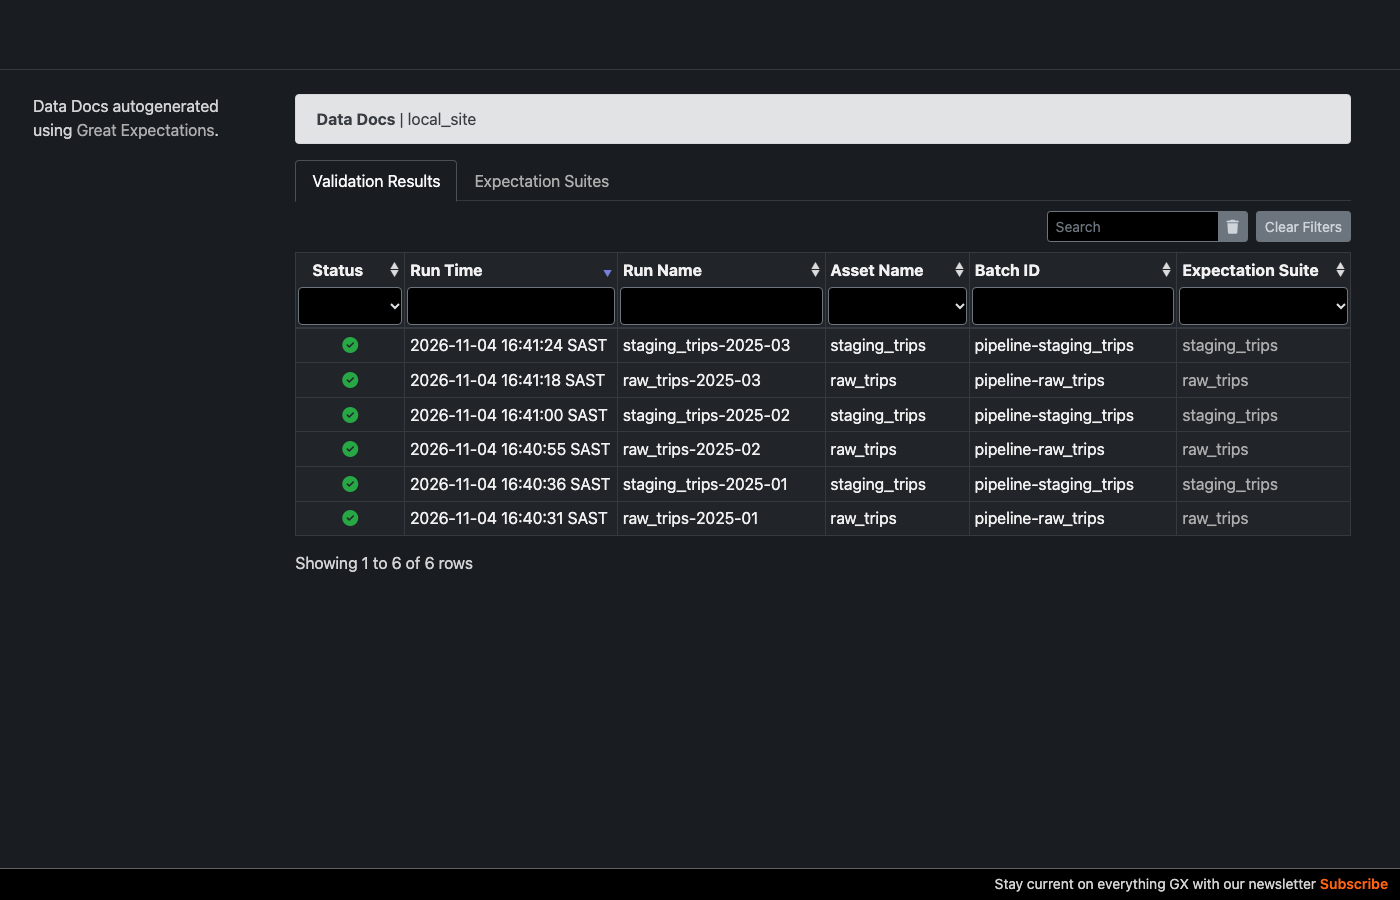
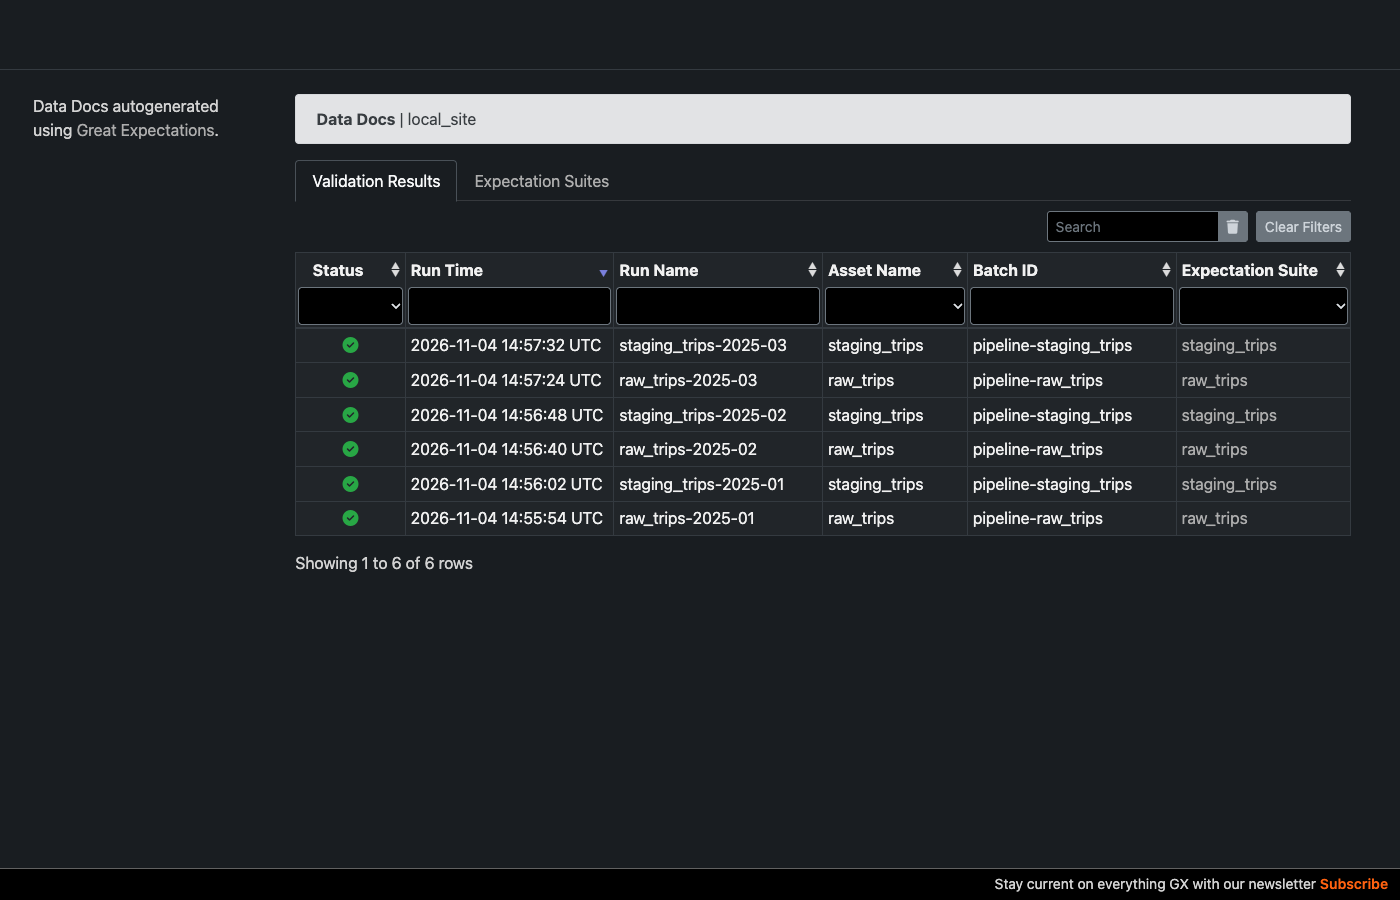
docs: final README with dashboard, Airflow and Data Docs screenshots

diff --git a/README.md b/README.md
@@ -6,10 +6,13 @@
 > model it into an analytics-ready star schema, and produce reliable aggregates (demand by
 > zone/hour, revenue, tipping behaviour), with reruns that are idempotent per month.
 
-A batch pipeline in Python, DuckDB and dbt, orchestrated by Airflow, that runs locally or in
-Docker. Three months of 2025 data
-(11.2M raw rows) load from scratch with one command, rerunning a month replaces it with exactly
-the same rows, and every rejected row is kept along with the reason it was rejected.
+A batch pipeline in Python, DuckDB and dbt, orchestrated by Airflow, checked by Great
+Expectations and served to a Metabase dashboard, all from one `docker-compose.yml`. Three months
+of 2025 data (11.2M raw rows) load from scratch with one command. Rerunning a month replaces it
+with exactly the same rows, and every rejected row is kept along with the reason it was
+rejected.
+
+![Metabase dashboard](docs/img/metabase_dashboard.png)
 
 ## Architecture
 
@@ -33,6 +36,8 @@ flowchart TD
         F --> A["agg_daily_zone_demand<br/>agg_hourly_revenue<br/>agg_payment_tip_behaviour"]
         L["run_log<br/>run_rejections<br/>quality_results"]
     end
+    WH -->|"publish.py (full refresh, one transaction)"| PG[("Postgres analytics<br/>dims, aggregates, audit")]
+    PG -->|read-only role| MB[Metabase dashboard]
 ```
 
 | Stage | Module | What it does |
@@ -43,7 +48,9 @@ flowchart TD
 | Transform | [transform.py](src/pipeline/transform.py) | Derives `trip_key`, `pickup_date/hour/dow`, `trip_duration_min` and `tip_pct`, then writes the month's staging partition. |
 | Quality | [quality.py](src/pipeline/quality.py) | Runs two Great Expectations suites: a drift report on the raw file, and a blocking data contract on the staged rows. Results go to `quality_results` and Data Docs. |
 | Model | [dbt.py](src/pipeline/dbt.py), [dbt/](dbt/) | Runs `dbt build` for the month: a seed, staging views, dimensions, an incremental fact table, incremental aggregates and 22 data tests. |
-| Orchestrate | [nyc_taxi_monthly.py](airflow/dags/nyc_taxi_monthly.py) | Airflow DAG with one run per month: wait for TLC to publish the file → extract → validate and stage → dbt build → log the run. |
+| Publish | [publish.py](src/pipeline/publish.py) | Copies the dimensions, aggregates and audit tables into Postgres for BI tools. |
+| Orchestrate | [nyc_taxi_monthly.py](airflow/dags/nyc_taxi_monthly.py) | Airflow DAG with one run per month: wait for TLC to publish the file → extract → validate and stage → GX checks → dbt build → log the run → publish. |
+| Dashboard | [bootstrap.py](metabase/bootstrap.py) | Builds the Metabase dashboard through Metabase's API. |
 | Audit | [runlog.py](src/pipeline/runlog.py) | Adds one `run_log` row per run (including failed runs) and per-rule counts to `run_rejections`. |
 
 ## Running it
@@ -62,11 +69,17 @@ make quality-docs                         # Great Expectations Data Docs (every 
 make docker-run MONTH=2025-01
 make docker-backfill START=2025-01 END=2025-03
 
-# Airflow (docker compose): UI on http://localhost:8080, no login needed locally
+# The full stack (docker compose): Airflow on :8080, Metabase on :3000
 cp .env.example .env                      # optional: bound the months the DAG schedules
-make airflow-up                           # Postgres + api-server + scheduler + dag-processor
-make airflow-backfill START=2025-01 END=2025-03
-make airflow-down
+make up                                   # Postgres, Airflow, Metabase
+make airflow-backfill START=2025-01 END=2025-03   # each run ends by publishing to Postgres
+make bi-bootstrap                         # build/update the dashboard; prints a public link
+make down
+
+# Pieces on their own
+make airflow-up | make bi-up              # just Airflow, or just Postgres + Metabase
+make publish                              # copy serving tables from a local (CLI) run
+make screenshots                          # refresh the README images with headless Chrome
 ```
 
 You can also call the CLI directly with `python -m pipeline run --month 2025-01` or
@@ -115,6 +128,37 @@ flowchart LR
 - **CI runs the DAG for real.** The `Airflow DAG test` job builds the image, checks the DAG
   imports cleanly, runs `airflow dags test` on the fixture month, and asserts what landed in
   `run_log` and `fact_trips`.
+
+![Airflow grid: three catchup runs, every task green](docs/img/airflow_grid.png)
+
+## Serving and dashboard (Postgres + Metabase)
+
+**DuckDB is the warehouse; Postgres is the serving layer.** DuckDB lets only one process write,
+and a writer locks every other process out of the file. A dashboard holding
+`warehouse.duckdb` open would therefore block the pipeline, and a load would break the
+dashboard. So the last task of each run, `publish_marts`, copies the serving tables
+(dimensions, aggregates, `run_log`, `run_rejections` and `quality_results`, about 23k rows)
+into a Postgres `analytics` database. Metabase reads it with its built-in Postgres driver,
+with no third-party DuckDB plugin. `fact_trips` (8.65M rows) stays in DuckDB.
+
+- **Atomic full refresh.** Every publish drops and recreates the tables inside one Postgres
+  transaction, so the dashboard sees either the previous version or the new one, never a
+  partial one. It takes about 3 s.
+- **Least privilege.** [setup-serving.sh](docker/postgres/setup-serving.sh) creates three
+  roles: `analytics_writer` (the pipeline), `metabase_reader` (SELECT only, including on tables
+  created later, via default privileges) and `metabase_app` (Metabase's own database). It is
+  idempotent, so it runs on every `docker compose up`.
+- **Publishing is separate from loading.** If Postgres is down, the month still loads and is
+  still logged, and `publish_marts` retries on its own. Without `PIPELINE_SERVING_URL`
+  (CLI runs, CI fixtures) publishing is skipped.
+- **The dashboard is code.** [metabase/bootstrap.py](metabase/bootstrap.py) (standard
+  library only) completes Metabase's first-time setup, connects the database through the
+  read-only role, and creates or updates 11 native-SQL questions and the dashboard layout.
+  Re-running it updates the same objects in place, and the README screenshot is taken from the
+  dashboard's public link.
+- **Timestamps are UTC.** `run_log` used to record local time on a laptop and UTC in
+  containers, which the dashboard's run history exposed. Every timestamp is now naive UTC
+  (`runlog.utcnow()`).
 
 ## Data quality rules
 
@@ -216,6 +260,9 @@ flowchart LR
   deterministic, so recovering from a failed run just means rerunning the month. Tests prove
   that a rerun gives identical rows in every table, and that a broken model fails the run,
   logs it as `failed`, and leaves every table consistent.
+- **A Postgres serving copy instead of a DuckDB driver for BI.** It removes the file-lock
+  conflict between the pipeline and the dashboard, uses Metabase's first-party driver, and
+  limits the BI role to `SELECT` on curated tables.
 - **GX adds a second check rather than replacing the rule engine.** Quarantine
   stays in SQL, where it runs fast and records the reason for each row. GX adds what it does
   well: a check written independently of the rules, a blocking contract, drift thresholds,
@@ -272,8 +319,9 @@ flowchart LR
 ```text
 src/pipeline/          cli, config, extract, schema, rules, validate, transform, dbt, runlog
 airflow/dags/          nyc_taxi_monthly DAG
-docker/                Airflow image (pipeline + dbt in its own venv)
-docker-compose.yml     Airflow stack: Postgres, api-server, scheduler, dag-processor
+docker/                Airflow image (pipeline + dbt in its own venv); Postgres serving setup
+docker-compose.yml     Full stack: Postgres, Airflow (api-server, scheduler, dag-processor), Metabase
+metabase/              bootstrap.py: the dashboard as code
 dbt/models/staging/    stg_trips, stg_zones (views over the pipeline's files)
 dbt/models/marts/      dim_zone, dim_date, dim_payment_type, fact_trips
 dbt/models/aggregates/ agg_daily_zone_demand, agg_hourly_revenue, agg_payment_tip_behaviour
@@ -294,9 +342,9 @@ include the 22 out-of-month trips in 3.5M rows.
 | `sql/` run by Python | dbt with `dbt-duckdb`: staging → marts, data tests, docs with a lineage graph | ✅ Done |
 | CLI + Makefile loop for backfills | Airflow DAG: monthly schedule, `catchup=True`, extract → validate → load → dbt | ✅ Done |
 | `rules.py` | Great Expectations (GX Core 1.x) suite at the raw → staging boundary, keeping the quarantine logic | ✅ Done |
-| README tables | Metabase dashboard on the marts, with screenshots committed to the repo | Next |
+| README tables | Metabase dashboard on the marts (served from Postgres), with screenshots committed to the repo | ✅ Done |
 
-All of these will run from a single `docker-compose.yml`.
+All of these run from a single `docker-compose.yml` (`make up`).
 
 ## Data source
 
